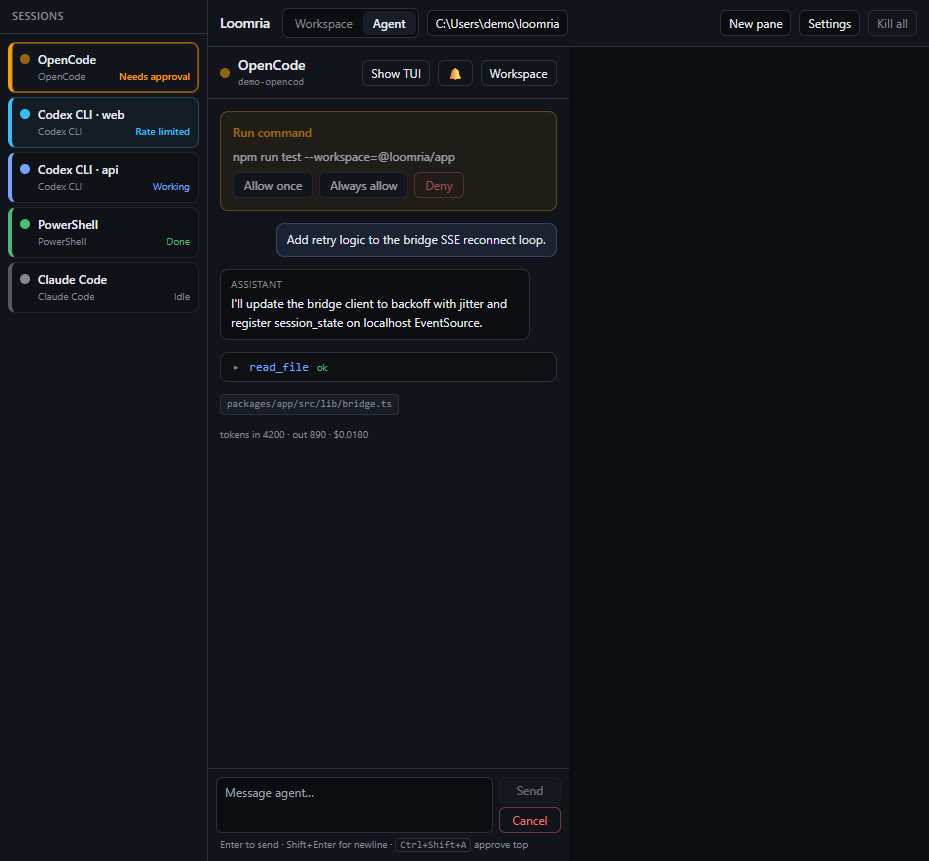
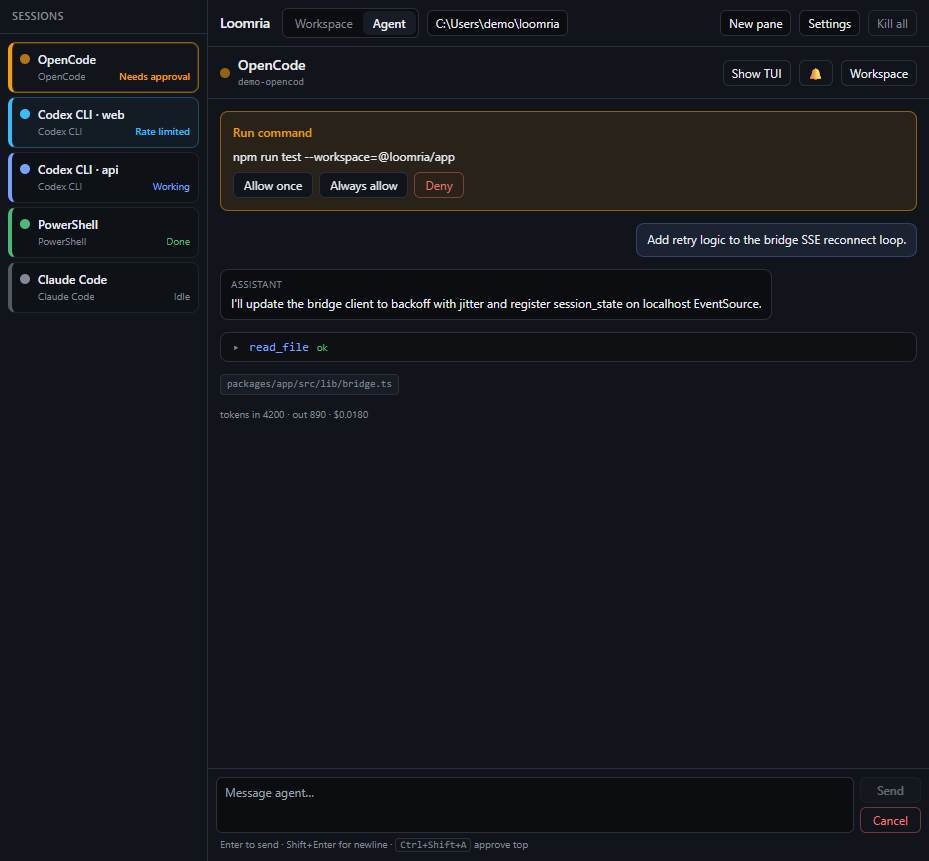
B: full-width agent chat when TUI collapsed.
Park terminal surfaces off-layout without unmounting, center timeline/composer at max-w 52rem, add demo tui=1 URL flag, layout test, and agent screenshots.

diff --git a/packages/app/src/components/agent/AgentView.tsx b/packages/app/src/components/agent/AgentView.tsx
@@ -138,8 +138,8 @@ export function AgentView({
 
   return (
     <div
-      className={`flex flex-col min-h-0 bg-lr-panel border-lr-border lr-agent-panel shrink-0 ${
-        showTui ? 'border-r' : 'flex-1 min-w-0'
+      className={`flex flex-col min-h-0 bg-lr-panel border-lr-border lr-agent-panel ${
+        showTui ? 'shrink-0 border-r' : 'flex-1 min-w-0 w-full z-[1]'
       }`}
       style={
         showTui && chatWidthPercent != null
@@ -149,7 +149,7 @@ export function AgentView({
             : undefined
       }
     >
-      <div className="flex items-center gap-2 px-3 py-2 border-b border-lr-border shrink-0">
+      <div className="flex items-center gap-2 px-3 py-2 border-b border-lr-border shrink-0 w-full">
         <DisplayStatusDot status={displayStatus} pulse={displayStatus === 'needs_approval'} />
         <div className="min-w-0 flex-1">
           <div className="text-sm font-medium truncate">{agentLabel}</div>
@@ -183,28 +183,32 @@ export function AgentView({
         </button>
       </div>
 
-      {loading && <p className="text-xs text-lr-muted px-3 py-2">Loading session…</p>}
-      {error && (
-        <p className="text-xs text-lr-err px-3 py-2 border-b border-lr-err/30">{error}</p>
-      )}
+      <div
+        className={`flex flex-1 flex-col min-h-0 w-full mx-auto ${showTui ? '' : 'max-w-[52rem]'}`}
+      >
+        {loading && <p className="text-xs text-lr-muted px-3 py-2">Loading session…</p>}
+        {error && (
+          <p className="text-xs text-lr-err px-3 py-2 border-b border-lr-err/30">{error}</p>
+        )}
 
-      <AgentTimeline
-        vm={timeline}
-        nativeTuiOnly={nativeTuiOnly}
-        busy={busy}
-        onRespondApproval={(id, d) => void respondApproval(id, d)}
-      />
-
-      {!nativeTuiOnly && (
-        <AgentComposer
-          disabled={composerDisabled}
-          disabledReason={composerReason}
+        <AgentTimeline
+          vm={timeline}
+          nativeTuiOnly={nativeTuiOnly}
           busy={busy}
-          showCancel={capabilities.cancel && timeline.turnActive}
-          onSend={send}
-          onCancel={cancelTurn}
+          onRespondApproval={(id, d) => void respondApproval(id, d)}
         />
-      )}
+
+        {!nativeTuiOnly && (
+          <AgentComposer
+            disabled={composerDisabled}
+            disabledReason={composerReason}
+            busy={busy}
+            showCancel={capabilities.cancel && timeline.turnActive}
+            onSend={send}
+            onCancel={cancelTurn}
+          />
+        )}
+      </div>
     </div>
   );
 }

diff --git a/packages/app/src/components/persistent-terminal.test.tsx b/packages/app/src/components/persistent-terminal.test.tsx
@@ -131,4 +131,38 @@ describe('PersistentPaneSurfaces', () => {
     expect(terminalMountSpy.mock.calls.length).toBe(mountsAfterWorkspace);
     expect(disposeSpy).not.toHaveBeenCalled();
   });
+
+  it('parks terminals off-layout when agent TUI is collapsed', () => {
+    act(() => {
+      root.render(
+        <div className="relative flex flex-row w-[960px] h-[400px]">
+          <div className="flex-1 min-w-0 bg-lr-panel" data-testid="chat-column" />
+          <PersistentPaneSurfaces
+            mode="agent"
+            agentPaneId="pane-a"
+            showTui={false}
+            layoutEpoch={0}
+            agentCatalog={agentCatalog}
+            registry={registry}
+            projectPath={null}
+            sessionStates={new Map()}
+            agentPaneTitle="Pane A"
+            tuiSurfaceLive={false}
+            onHideTui={() => {}}
+            onClosePane={() => {}}
+            onEnterAgent={() => {}}
+          />
+        </div>,
+      );
+    });
+
+    const parked = container.querySelector('[data-agent-tui-layout="parked"]') as HTMLElement;
+    expect(parked).not.toBeNull();
+    expect(container.querySelector('[data-agent-tui-layout="open"]')).toBeNull();
+    expect(container.querySelector('[data-pane-id="pane-a"]')).not.toBeNull();
+    expect(parked.className).toContain('absolute');
+    expect(parked.className).not.toContain('flex-1');
+
+    expect(disposeSpy).not.toHaveBeenCalled();
+  });
 });

diff --git a/packages/app/src/components/PersistentPaneSurfaces.tsx b/packages/app/src/components/PersistentPaneSurfaces.tsx
@@ -42,10 +42,13 @@ export function PersistentPaneSurfaces({
   const panes = paneList.filter((pane) => !pane.info.id.startsWith('loomria-orchestrator-'));
   const [showAdd, setShowAdd] = useState(false);
 
-  const workspaceGridClass =
+  const agentTuiColumnOpen = mode === 'agent' && showTui;
+  const rootLayoutClass =
     mode === 'workspace'
       ? 'grid grid-cols-1 xl:grid-cols-2 gap-2 auto-rows-[minmax(260px,auto)] p-2'
-      : 'relative flex-1 min-w-0 min-h-0 flex flex-col';
+      : agentTuiColumnOpen
+        ? 'relative flex-1 min-w-0 min-h-0 flex flex-col'
+        : 'absolute inset-0 overflow-visible pointer-events-none z-0';
 
   const addPane = async (agent: AgentId) => {
     setShowAdd(false);
@@ -58,8 +61,9 @@ export function PersistentPaneSurfaces({
 
   return (
     <div
-      className={`flex-1 min-h-0 overflow-auto bg-lr-bg lr-mode-transition ${workspaceGridClass}`}
+      className={`min-h-0 lr-mode-transition ${mode === 'workspace' ? 'flex-1 overflow-auto bg-lr-bg' : agentTuiColumnOpen ? 'flex-1 overflow-auto bg-lr-bg' : ''} ${rootLayoutClass}`}
       data-mode={mode}
+      data-agent-tui-layout={mode === 'agent' ? (agentTuiColumnOpen ? 'open' : 'parked') : undefined}
     >
       {panes.map((pane) => {
         const isSelected = pane.info.id === agentPaneId;

diff --git a/packages/app/src/App.tsx b/packages/app/src/App.tsx
@@ -73,11 +73,12 @@ export default function App() {
 
   useEffect(() => {
     if (!demo) return;
-    const { view, paneId } = readDemoUrlFlags();
+    const { view, paneId, showTui: demoShowTui } = readDemoUrlFlags();
     if (view === 'agent') {
       enterAgentMode(paneId ?? demo.defaultAgentPaneId);
+      if (demoShowTui) setShowTui(true);
     }
-  }, [demo, enterAgentMode]);
+  }, [demo, enterAgentMode, setShowTui]);
 
   useEffect(() => {
     if (!agentPaneId) return;
@@ -172,7 +173,7 @@ export default function App() {
         />
         <div
           data-agent-split-row
-          className={`flex flex-1 min-h-0 lr-mode-transition ${mode === 'agent' ? 'flex-row' : 'flex-col'}`}
+          className={`relative flex flex-1 min-h-0 lr-mode-transition ${mode === 'agent' ? 'flex-row' : 'flex-col'}`}
         >
           {mode === 'agent' && agentPaneId && (
             <AgentView

diff --git a/packages/app/src/lib/demo-mode.ts b/packages/app/src/lib/demo-mode.ts
@@ -13,8 +13,17 @@ export function isDemoMode(): boolean {
   return parseDemoVariant() !== null;
 }
 
-export function readDemoUrlFlags(): { view: 'workspace' | 'agent'; paneId: string | null } {
+export function readDemoUrlFlags(): {
+  view: 'workspace' | 'agent';
+  paneId: string | null;
+  showTui: boolean;
+} {
   const params = new URLSearchParams(window.location.search);
   const view = params.get('view') === 'agent' ? 'agent' : 'workspace';
-  return { view, paneId: params.get('pane') };
+  const tui = params.get('tui');
+  return {
+    view,
+    paneId: params.get('pane'),
+    showTui: tui === '1' || tui === 'open' || tui === 'true',
+  };
 }
